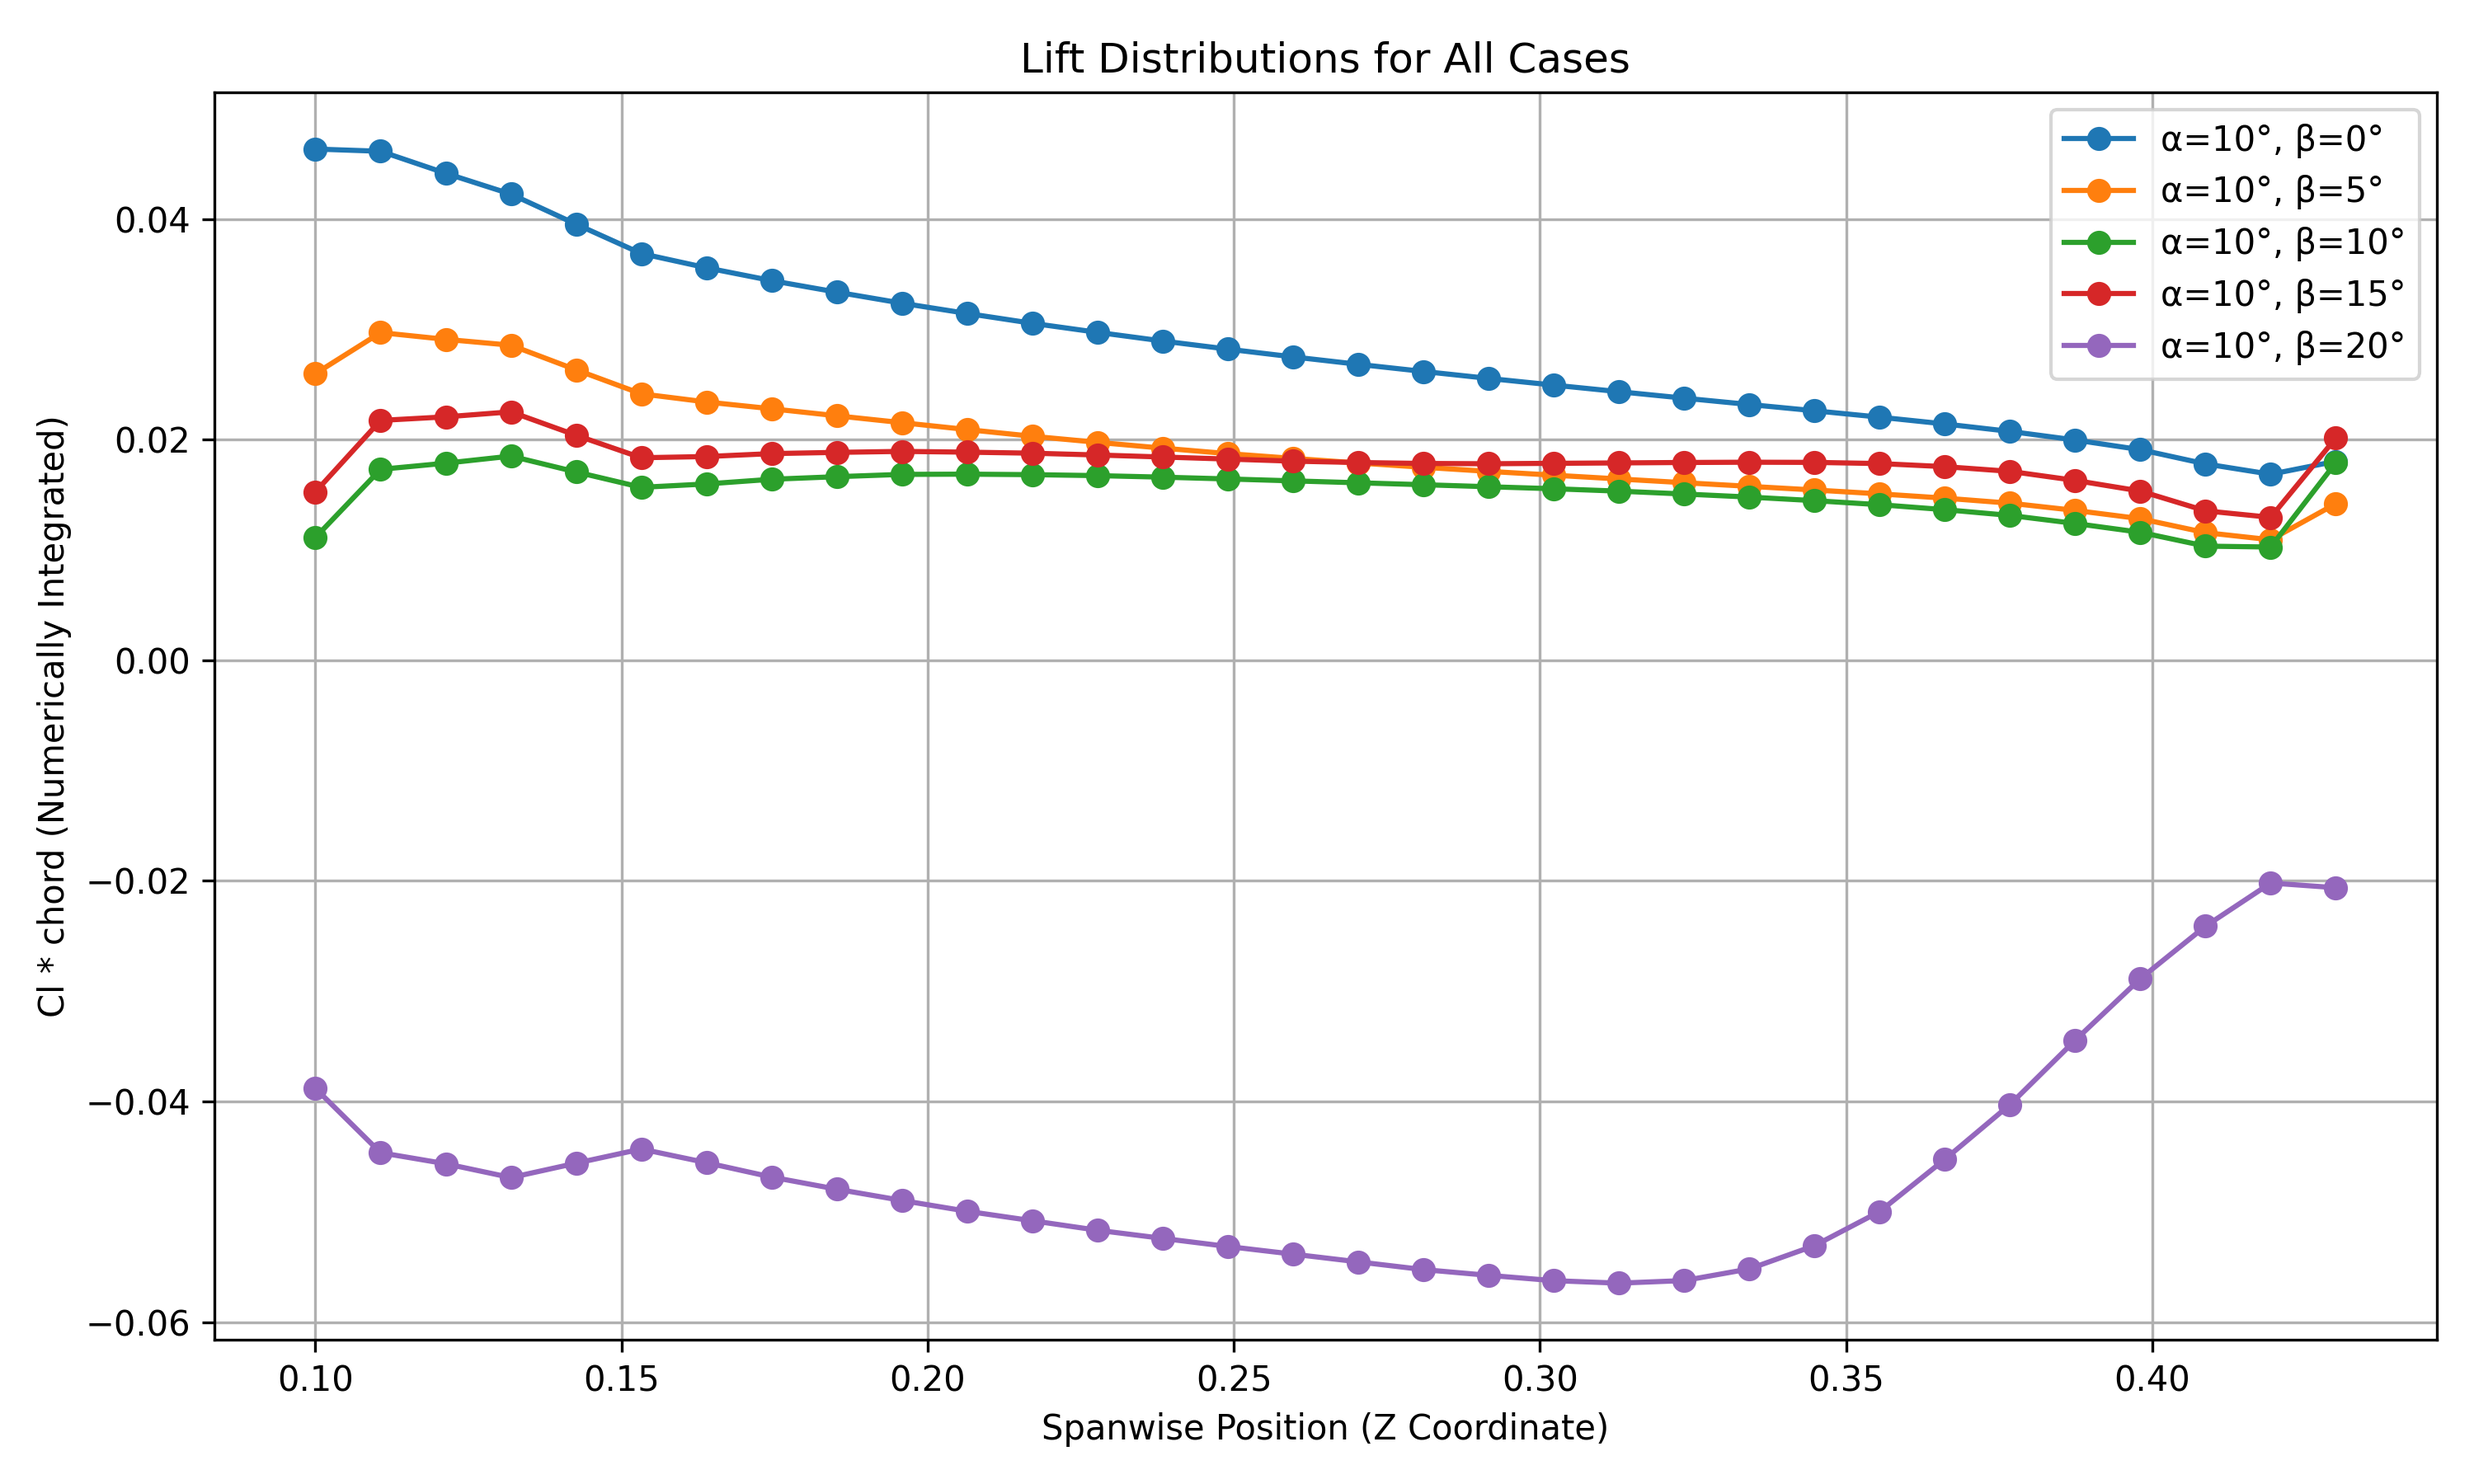
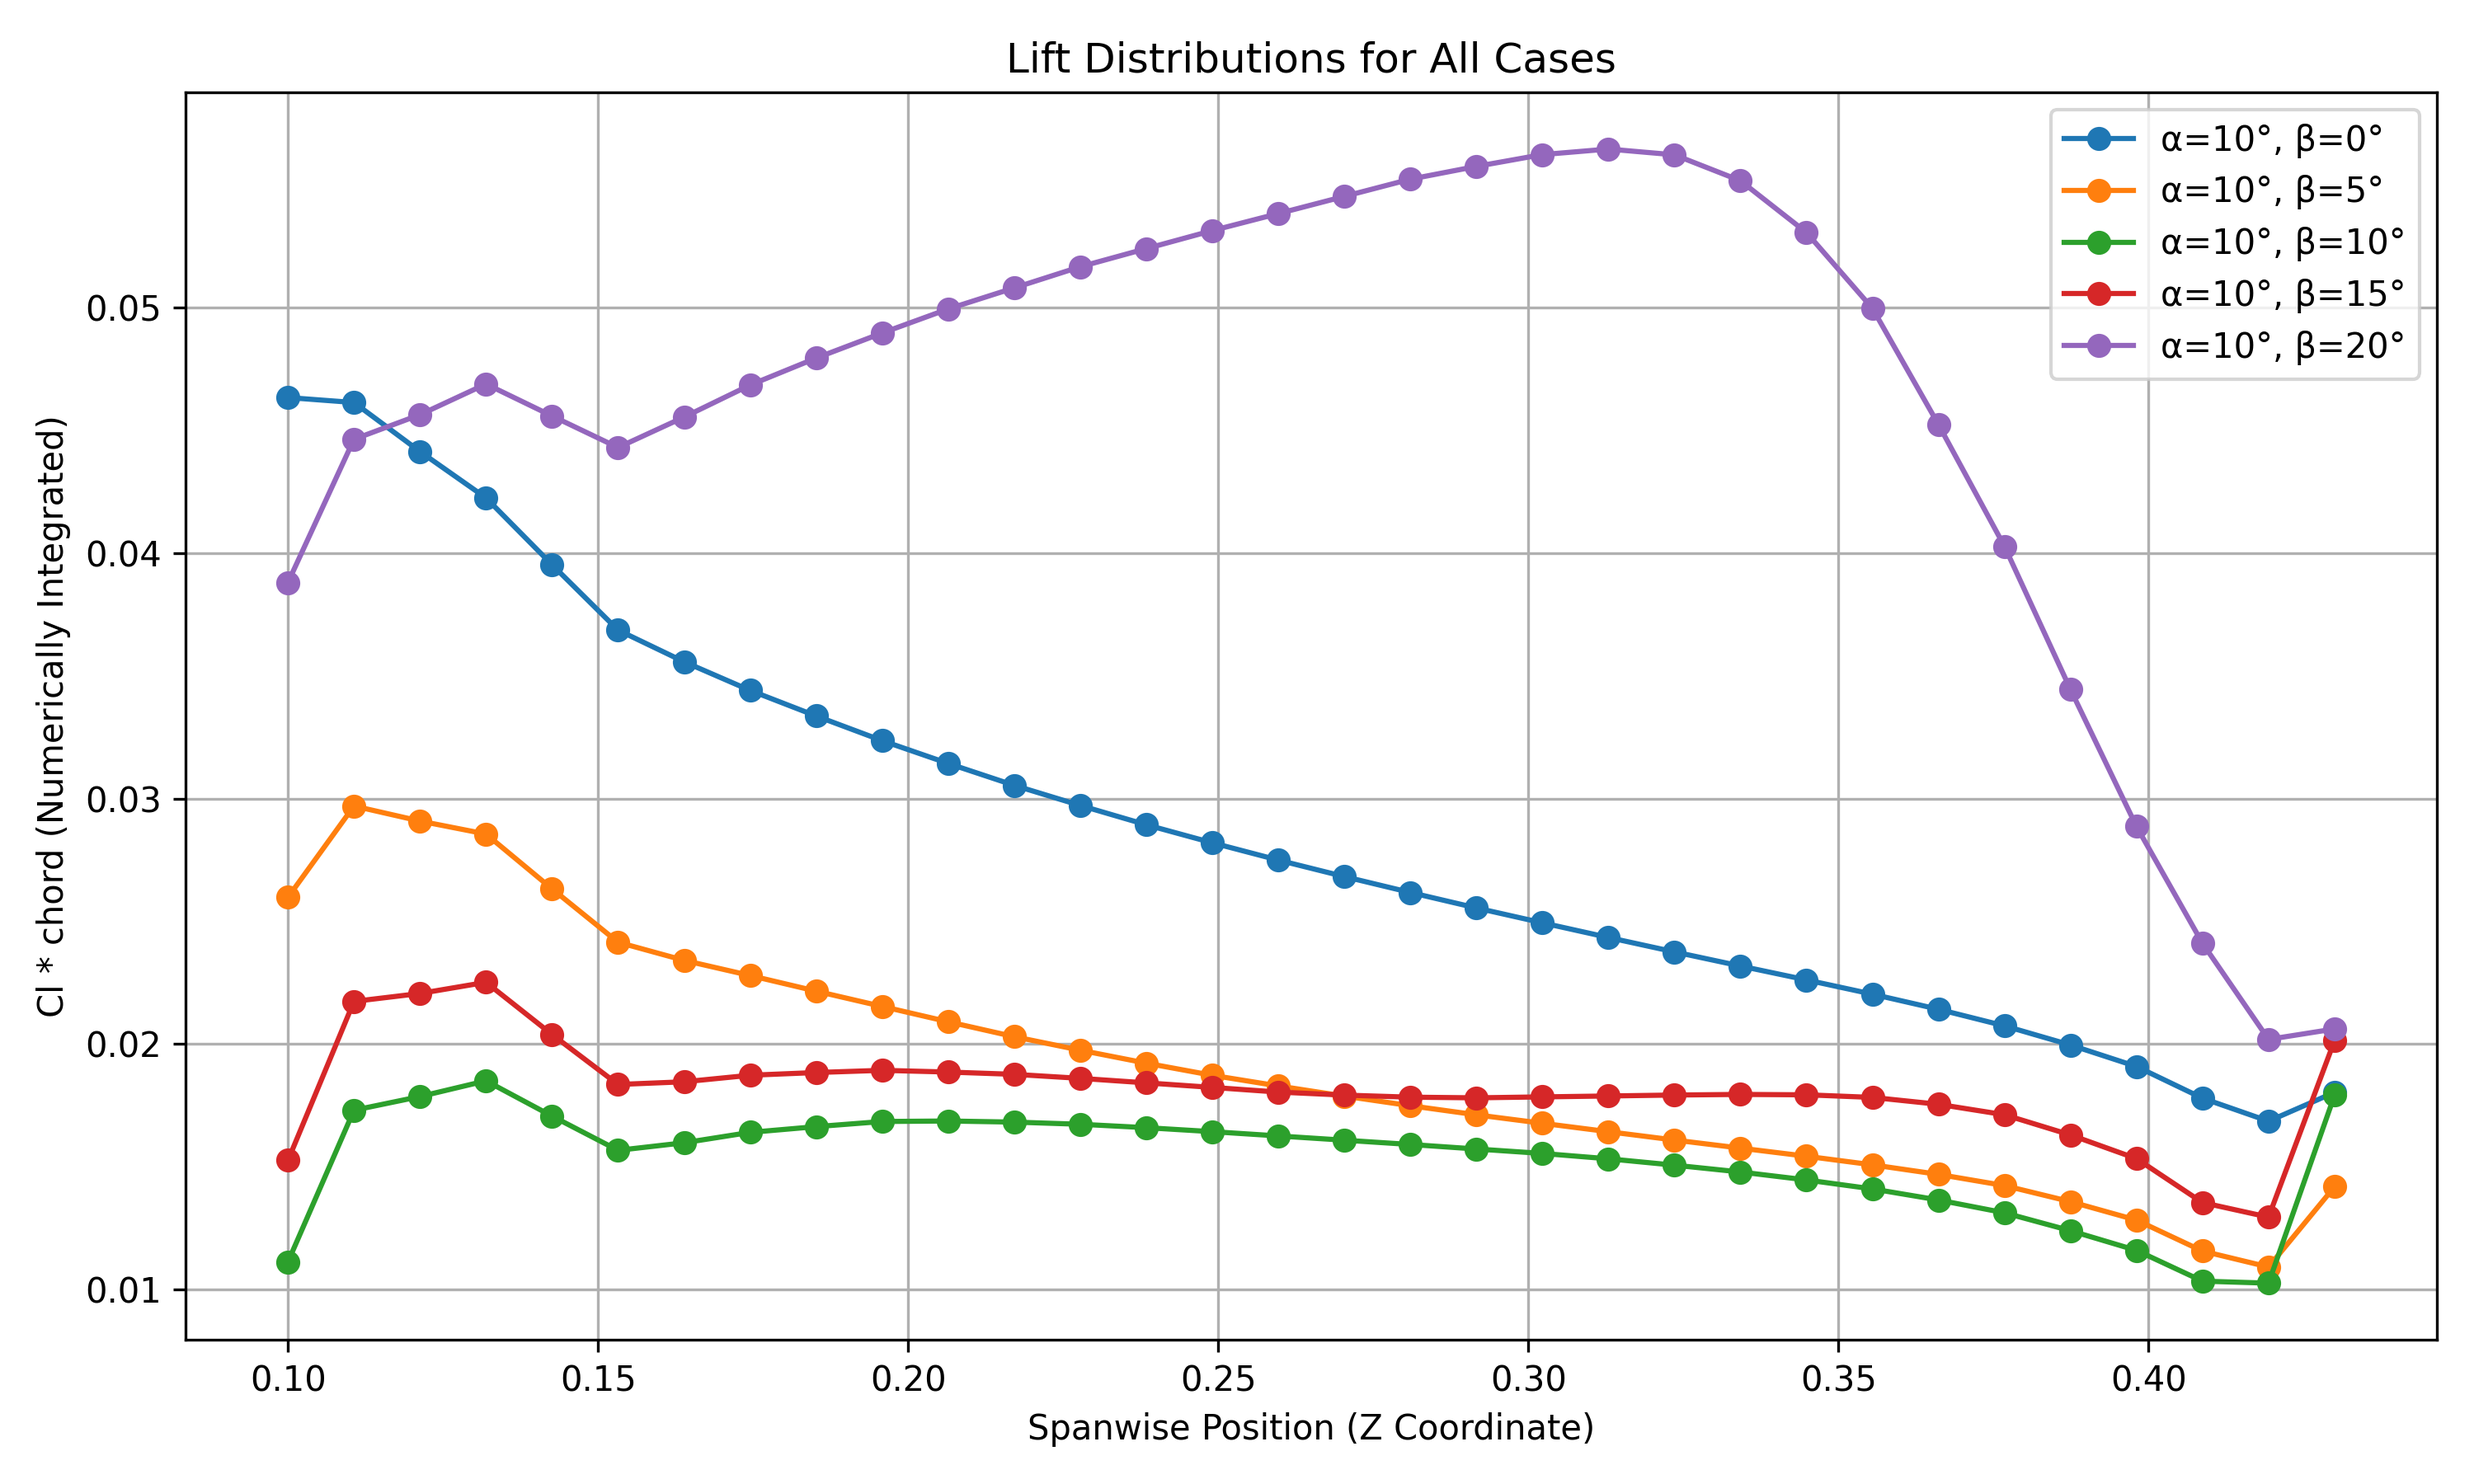
Fixed sign change

diff --git a/Left Winglets/scraper3.py b/Left Winglets/scraper3.py
@@ -363,8 +363,8 @@ def plot_all_lift_distributions(datasets, titles, q=0.5 * 1.176655 * 34.70916 * 
             lift_pos = np.trapezoid(pressures_sorted[pos_mask], x_sorted[pos_mask]) if np.any(pos_mask) else 0.0
             lift_neg = np.trapezoid(pressures_sorted[neg_mask], x_sorted[neg_mask]) if np.any(neg_mask) else 0.0
             lift_at_z = -(lift_pos + lift_neg)
-            if label == f"α=10°, β=20°":
-                lift_at_z = 0-lift_at_z # Invert the α=10°, β=20° case
+            # if label == f"α=10°, β=20°":
+                # lift_at_z = 0-lift_at_z # Invert the α=10°, β=20° case
             x_min, x_max = np.min(x_at_z), np.max(x_at_z)
             if (x_max - x_min) < 0.0001:
                 continue

diff --git a/Right Winglets/scraper3.py b/Right Winglets/scraper3.py
@@ -363,8 +363,8 @@ def plot_all_lift_distributions(datasets, titles, q=0.5 * 1.176655 * 34.70916 * 
             lift_pos = np.trapezoid(pressures_sorted[pos_mask], x_sorted[pos_mask]) if np.any(pos_mask) else 0.0
             lift_neg = np.trapezoid(pressures_sorted[neg_mask], x_sorted[neg_mask]) if np.any(neg_mask) else 0.0
             lift_at_z = -(lift_pos + lift_neg)
-            if label == f"α=10°, β=20°":
-                lift_at_z = 0-lift_at_z # Invert the α=10°, β=20° case
+            # if label == f"α=10°, β=20°":
+                # lift_at_z = 0-lift_at_z # Invert the α=10°, β=20° case
             x_min, x_max = np.min(x_at_z), np.max(x_at_z)
             if (x_max - x_min) < 0.0001:
                 continue
